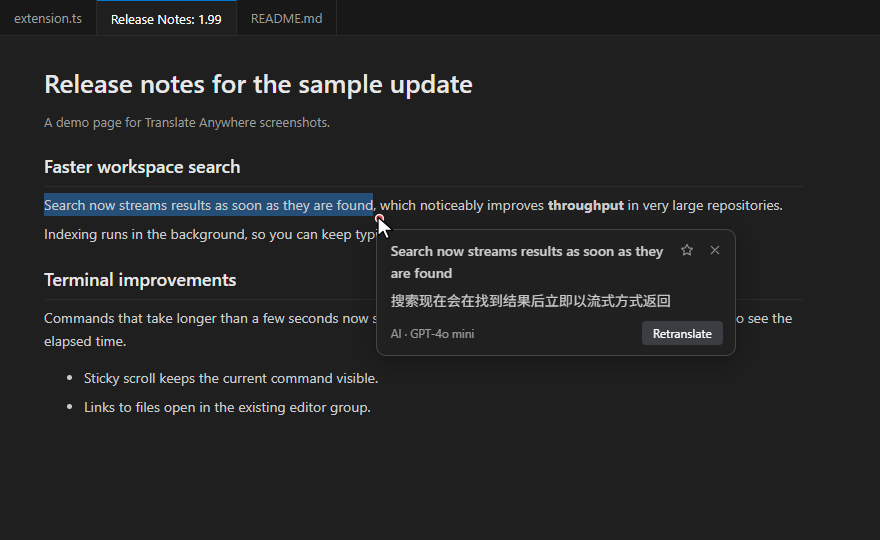
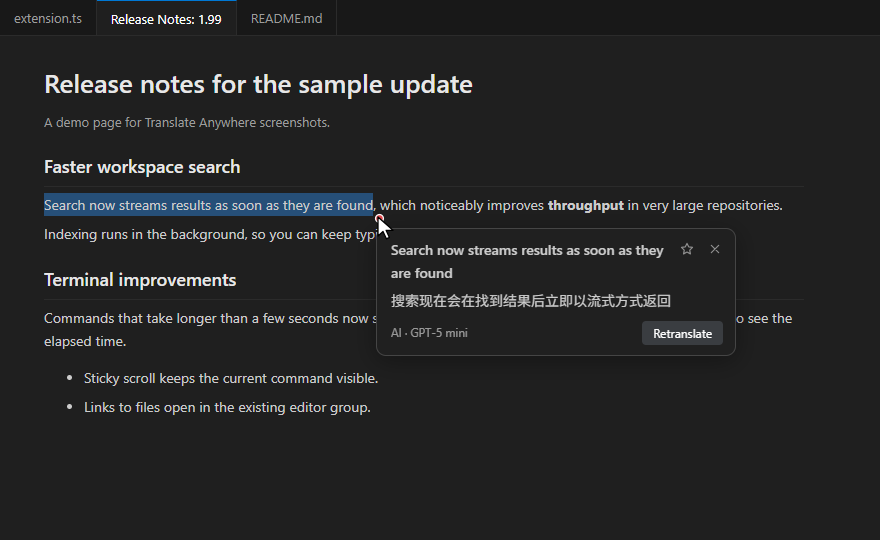
Release 0.6.1: sidebar polish
- Lightweight advisor picks Recommended models after a speed test
- Settings page links jump to the sidebar; new Open the Sidebar command
- Sidebar vocabulary folds after five entries with an inline toggle
- Speed-test tooltip notes premium-request cost
- Fix garbled zh/de setting descriptions
- Refresh README screenshots

diff --git a/src/panel.js b/src/panel.js
@@ -24,13 +24,13 @@ const STRINGS = {
     noModelChosen: 'Choose the model for phrases and paragraphs. A small, fast one works best.',
     needsAccess: 'Not authorized yet.', allowAccess: 'Allow access',
     speed: 'Test speed', testing: 'Testing… {0}%', advising: 'Picking recommendations…', unauthorized: 'not authorized', failed: 'failed',
-    speedTitle: 'Each visible, authorized model translates a sentence: one warm-up, then three timed runs (median shown). Then one of your models picks the ones suited to translation as "Recommended".',
+    speedTitle: 'Each visible, authorized model translates a sentence: one warm-up, then three timed runs (median shown). Then the fastest lightweight model picks the ones suited to translation as "Recommended". Requests to premium models count toward your Copilot premium-request quota; hide models you never use in VS Code\'s Language Models view to skip them.',
     speedRunning: 'One warm-up and three timed runs per model. This can take a minute.',
     fastest: 'Fastest: {0} · {1}', recommendedPick: 'Recommended: {0} · {1}', firstWords: 'first words {0}', useIt: 'Use it', speedNone: 'No model answered within 20 seconds.',
     speedUnauthorized: '{0} not authorized yet, so not measured. Choose one and click "Allow access".', close: 'Close', apiKey: 'API key', keySaved: 'Saved in the OS keychain',
     keyMissing: 'Not set', keyOptional: 'Optional', setKey: 'Set key', getKey: 'Get a key', fetch: 'Fetch list', fetching: 'Loading…',
     baseUrl: 'API base URL', noModels: 'No VS Code language model available. Sign in to GitHub Copilot or pick another provider.',
-    vocabulary: 'Vocabulary', vocabEmpty: 'Click ☆ in the translation popup to collect words and sentences here.', vocabMore: '+{0} more',
+    vocabulary: 'Vocabulary', vocabEmpty: 'Click ☆ in the translation popup to collect words and sentences here.', vocabMore: '{0} more in the full list →', vocabShowMore: 'Show {0} more ▾', vocabShowLess: 'Show less ▴',
     open: 'Open', export: 'Export CSV', remove: 'Remove…',
     dictionary: 'Offline dictionary', dictReady: 'Ready · {0} entries · {1}', dictLoading: 'Loading…', dictDownloading: 'Downloading… {0}',
     dictMissing: 'Not installed. Lookups fall back to AI.', dictError: 'Error: {0}', dictIdle: 'Loads on first lookup',
@@ -60,13 +60,13 @@ const STRINGS = {
     noModelChosen: '请选择用于翻译句子和段落的模型，推荐小而快的模型。',
     needsAccess: '尚未授权。', allowAccess: '授权使用',
     speed: '测速', testing: '测速中… {0}%', advising: '正在挑选推荐模型…', unauthorized: '未授权', failed: '失败',
-    speedTitle: '每个可见且已授权的模型翻译同一句话：先预热一次，再计时三次（显示中位数）。然后由你的一个模型挑出适合翻译的模型，标为“推荐”。',
+    speedTitle: '每个可见且已授权的模型翻译同一句话：先预热一次，再计时三次（显示中位数）。随后由其中最快的轻量模型挑出适合翻译的模型，标为“推荐”。对高级模型的请求会计入 Copilot 高级请求额度；不用的模型可在 VS Code 的“语言模型”视图中隐藏，测速时即会跳过。',
     speedRunning: '每个模型预热一次、计时三次，可能需要一分钟左右。',
     fastest: '最快：{0} · {1}', recommendedPick: '推荐：{0} · {1}', firstWords: '首字 {0}', useIt: '改用此模型', speedNone: '没有模型在 20 秒内返回结果。',
     speedUnauthorized: '{0} 个模型尚未授权，未参与测速。选中后点击“授权使用”即可。', close: '关闭', apiKey: 'API Key', keySaved: '已保存在系统钥匙串', keyMissing: '未设置', keyOptional: '可选',
     setKey: '设置 Key', getKey: '获取 Key', fetch: '获取列表', fetching: '加载中…', baseUrl: 'API 地址',
     noModels: '没有可用的 VS Code 语言模型。请登录 GitHub Copilot 或选择其他服务商。',
-    vocabulary: '生词本', vocabEmpty: '在翻译弹窗中点击 ☆，即可把单词和句子收藏到这里。', vocabMore: '还有 {0} 条',
+    vocabulary: '生词本', vocabEmpty: '在翻译弹窗中点击 ☆，即可把单词和句子收藏到这里。', vocabMore: '另有 {0} 条，查看完整列表 →', vocabShowMore: '展开其余 {0} 条 ▾', vocabShowLess: '收起 ▴',
     open: '打开', export: '导出 CSV', remove: '删除…',
     dictionary: '离线词典', dictReady: '可用 · {0} 词条 · {1}', dictLoading: '加载中…', dictDownloading: '下载中… {0}',
     dictMissing: '未安装，查词将回退到 AI。', dictError: '错误：{0}', dictIdle: '首次查词时加载',
@@ -96,7 +96,7 @@ const STRINGS = {
     noModelChosen: 'Wählen Sie das Modell für Sätze und Absätze. Ein kleines, schnelles eignet sich am besten.',
     needsAccess: 'Noch nicht autorisiert.', allowAccess: 'Zugriff erlauben',
     speed: 'Tempo messen', testing: 'Wird gemessen… {0}%', advising: 'Empfehlungen werden ermittelt…', unauthorized: 'nicht autorisiert', failed: 'fehlgeschlagen',
-    speedTitle: 'Jedes sichtbare, autorisierte Modell übersetzt einen Satz: ein Aufwärmlauf, dann drei gemessene Läufe (Median). Danach wählt eines Ihrer Modelle die für Übersetzungen geeigneten als „Empfohlen“ aus.',
+    speedTitle: 'Jedes sichtbare, autorisierte Modell übersetzt einen Satz: ein Aufwärmlauf, dann drei gemessene Läufe (Median). Danach wählt das schnellste leichte Modell die für Übersetzungen geeigneten als „Empfohlen“ aus. Anfragen an Premium-Modelle zählen zu Ihrem Copilot-Premium-Kontingent; in der Ansicht „Sprachmodelle“ ausgeblendete Modelle werden übersprungen.',
     speedRunning: 'Ein Aufwärmlauf und drei gemessene Läufe pro Modell. Das kann eine Minute dauern.',
     fastest: 'Am schnellsten: {0} · {1}', recommendedPick: 'Empfohlen: {0} · {1}', firstWords: 'erste Wörter {0}', useIt: 'Verwenden', speedNone: 'Kein Modell hat innerhalb von 20 Sekunden geantwortet.',
     speedUnauthorized: '{0} noch nicht autorisiert und daher nicht gemessen. Eines auswählen und auf „Zugriff erlauben“ klicken.', close: 'Schließen', apiKey: 'API-Schlüssel',
@@ -104,7 +104,7 @@ const STRINGS = {
     setKey: 'Schlüssel festlegen', getKey: 'Schlüssel erhalten', fetch: 'Liste abrufen', fetching: 'Wird geladen…',
     baseUrl: 'API-Basis-URL',
     noModels: 'Kein VS Code-Sprachmodell verfügbar. Melden Sie sich bei GitHub Copilot an oder wählen Sie einen anderen Anbieter.',
-    vocabulary: 'Vokabelliste', vocabEmpty: 'Im Übersetzungsfenster auf ☆ klicken, um Wörter und Sätze hier zu sammeln.', vocabMore: '+{0} weitere',
+    vocabulary: 'Vokabelliste', vocabEmpty: 'Im Übersetzungsfenster auf ☆ klicken, um Wörter und Sätze hier zu sammeln.', vocabMore: '{0} weitere in der vollständigen Liste →', vocabShowMore: '{0} weitere anzeigen ▾', vocabShowLess: 'Weniger anzeigen ▴',
     open: 'Öffnen', export: 'CSV exportieren', remove: 'Entfernen…',
     dictionary: 'Offline-Wörterbuch', dictReady: 'Bereit · {0} Einträge · {1}', dictLoading: 'Wird geladen…', dictDownloading: 'Wird heruntergeladen… {0}',
     dictMissing: 'Nicht installiert. Nachschlagen erfolgt per KI.', dictError: 'Fehler: {0}', dictIdle: 'Wird beim ersten Nachschlagen geladen',
@@ -288,6 +288,9 @@ class SettingsPanel {
   ul.vocab .w { font-weight: 600; overflow-wrap: anywhere; }
   ul.vocab .ph { margin-left: 6px; opacity: .65; font-size: 12px; }
   ul.vocab .tr { opacity: .8; font-size: 12px; white-space: nowrap; overflow: hidden; text-overflow: ellipsis; }
+  ul.vocab.expanded { max-height: 360px; overflow-y: auto; padding-right: 2px; }
+  .vocabfoot { display: flex; flex-wrap: wrap; justify-content: space-between; gap: 4px 12px; margin-top: 6px; font-size: 12px; }
+  .vocabfoot a[hidden] { display: none; }
 </style></head><body>
 <div class="banner" id="banner" role="alert" hidden><span id="bannerText"></span><button class="icon" id="bannerClose" title="${s.close}" aria-label="${s.close}">×</button></div>
 <details class="sec" data-sec="integration" open>
@@ -374,7 +377,8 @@ class SettingsPanel {
   <summary>${s.vocabulary}<span class="badge" id="vocabBadge" hidden></span></summary>
   <div class="muted" id="vocabEmpty" hidden>${s.vocabEmpty}</div>
   <ul class="vocab" id="vocabList"></ul>
-  <div class="muted" id="vocabMore" hidden></div>
+  <div class="vocabfoot"><a id="vocabToggle" role="button" tabindex="0" aria-controls="vocabList" hidden></a>
+    <a id="vocabMore" data-command="translateAnywhere.openVocabulary" role="button" tabindex="0" hidden></a></div>
   <div class="buttons"><button class="primary" id="vocabOpen" data-command="translateAnywhere.openVocabulary">${s.open}</button>
     <button id="vocabExport" data-command="translateAnywhere.exportVocabulary">${s.export}</button>
     <button id="vocabRemove" data-command="translateAnywhere.removeVocabulary">${s.remove}</button></div>
@@ -467,12 +471,19 @@ function renderSpeed(s) {
   }));
   info.hidden = !lines.length;
 }
+// Shows the newest few; the rest of what the host sent unfolds inline, anything beyond lives in the full list.
+const VOCAB_FOLDED = 5;
+let vocabExpanded = !!(vscode.getState() || {}).vocabExpanded;
 function renderVocabulary(s) {
   const recent = s.vocabularyRecent || [];
+  const extra = Math.max(0, recent.length - VOCAB_FOLDED);
+  const expanded = vocabExpanded && extra > 0;
+  const shown = expanded ? recent : recent.slice(0, VOCAB_FOLDED);
   $('vocabBadge').textContent = s.vocabularyCount;
   $('vocabBadge').hidden = !s.vocabularyCount;
   $('vocabEmpty').hidden = s.vocabularyCount > 0;
-  $('vocabList').replaceChildren(...recent.map(entry => {
+  $('vocabList').classList.toggle('expanded', expanded);
+  $('vocabList').replaceChildren(...shown.map(entry => {
     const li = document.createElement('li');
     const word = document.createElement('span');
     word.className = 'w';
@@ -493,8 +504,11 @@ function renderVocabulary(s) {
     }
     return li;
   }));
-  const more = s.vocabularyCount - recent.length;
-  $('vocabMore').hidden = more <= 0;
+  $('vocabToggle').hidden = !extra;
+  $('vocabToggle').textContent = expanded ? S.vocabShowLess : fmt(S.vocabShowMore, extra);
+  $('vocabToggle').setAttribute('aria-expanded', String(expanded));
+  const more = s.vocabularyCount - shown.length;
+  $('vocabMore').hidden = !expanded || more <= 0;
   $('vocabMore').textContent = fmt(S.vocabMore, more);
   for (const id of ['vocabOpen', 'vocabExport', 'vocabRemove']) $(id).disabled = !s.vocabularyCount;
 }
@@ -657,6 +671,8 @@ function resizeIcon(data, name) {
   img.src = data;
 }
 function focusTarget(id) {
+  if (id === 'modelId' && $('vscodeAI').hidden) id = 'apiModel';
+  if (id === 'vocabList' && $('vocabList').hidden) id = 'vocabOpen';
   const el = $(id);
   if (!el) return;
   if (id === 'dotEditor') toggleDotEditor(true);
@@ -687,6 +703,20 @@ for (const section of document.querySelectorAll('details[data-sec]')) {
   section.addEventListener('toggle', () => {
     collapsed[section.open ? 'delete' : 'add'](section.dataset.sec);
     vscode.setState({ ...(vscode.getState() || {}), collapsed: [...collapsed] });
+  });
+}
+function toggleVocab() {
+  vocabExpanded = !vocabExpanded;
+  vscode.setState({ ...(vscode.getState() || {}), vocabExpanded });
+  renderVocabulary(state);
+  if (!vocabExpanded) $('vocabList').scrollTop = 0;
+}
+$('vocabToggle').addEventListener('click', toggleVocab);
+for (const id of ['vocabToggle', 'vocabMore']) {
+  $(id).addEventListener('keydown', event => {
+    if (event.key !== 'Enter' && event.key !== ' ') return;
+    event.preventDefault();
+    $(id).click();
   });
 }
 $('bannerClose').addEventListener('click', () => { $('banner').hidden = true; });

diff --git a/src/extension.js b/src/extension.js
@@ -137,8 +137,8 @@ async function activate(context) {
   // A realistic UI sentence; one word measured mostly network noise and let large models look fast.
   const BENCHMARK_TEXT = 'This update makes search results appear faster and fixes a crash when you open very large files.';
   // Measures only models this extension may already use, so no consent dialog pops up per provider. Each model gets
-  // an untimed warm-up and three timed runs (median), at most two requests at a time. Then one of the user's models
-  // picks the lightweight ones for the "Recommended" group (onProgress gets phase 'advice' meanwhile).
+  // an untimed warm-up and three timed runs (median), at most two requests at a time. Then the fastest lightweight model
+  // picks the ones for the "Recommended" group (onProgress gets phase 'advice' meanwhile).
   async function measureModels(list, onProgress, token) {
     const results = await models.benchmark(list, async model => {
       const started = performance.now();
@@ -163,9 +163,7 @@ async function activate(context) {
   // Ids the user's own model judged lightweight and good for translation after the last speed test (empty: none known).
   const modelAdvice = () => new Set(context.globalState.get('modelAdvice', { ids: [] }).ids || []);
   async function adviseModels(list, token) {
-    const measuredOk = list.filter(model => modelTimings.get(model.id)?.status === 'ok');
-    const configured = measuredOk.find(model => model.id === config().get('ai.modelId', ''));
-    const advisor = configured || [...measuredOk].sort((a, b) => speedRank(a) - speedRank(b))[0];
+    const advisor = models.pickAdvisor(list.filter(model => modelTimings.get(model.id)?.status === 'ok'), speedRank);
     let ids = [];
     if (advisor) {
       try {
@@ -830,8 +828,13 @@ async function activate(context) {
     for (const key of Object.keys(DOT_DEFAULTS)) await config().update(`dot.${key}`, undefined, vscode.ConfigurationTarget.Global);
   }
   async function customizeDot() {
+    await openSidebar('dotEditor');
+  }
+  // Also the target of "command:" links in the setting descriptions; only known sidebar controls can be focused.
+  const SIDEBAR_TARGETS = new Set(['dotEditor', 'scParagraph', 'scFullPage', 'provider', 'modelId', 'targetLanguage', 'vocabList']);
+  async function openSidebar(target) {
     await vscode.commands.executeCommand(`${SettingsPanel.viewType}.focus`);
-    panel?.focus('dotEditor');
+    if (typeof target === 'string' && SIDEBAR_TARGETS.has(target)) panel?.focus(target);
   }
   // One-time hint in the translation popup that paragraph / page shortcuts exist: shown after a long selection,
   // at most three times, never twice within ten minutes, and never again once dismissed or a shortcut was used.
@@ -1164,6 +1167,7 @@ async function activate(context) {
     vscode.commands.registerCommand('translateAnywhere.authorizeAI', guarded(authorizeModel)),
     vscode.commands.registerCommand('translateAnywhere.tryIt', guarded(openPractice)),
     vscode.commands.registerCommand('translateAnywhere.customizeDot', guarded(customizeDot)),
+    vscode.commands.registerCommand('translateAnywhere.openSidebar', target => guarded(() => openSidebar(target))()),
     vscode.commands.registerCommand('translateAnywhere.openMarkdownAsPreview', guarded(() => setMarkdownPreviewDefault(true))),
     vscode.commands.registerCommand('translateAnywhere.openMarkdownAsText', guarded(() => setMarkdownPreviewDefault(false))),
     vscode.commands.registerCommand('translateAnywhere.openSurfaceSettings', () =>
@@ -1240,7 +1244,8 @@ async function activate(context) {
         }
       } catch (error) { logError(error); }
     }
-    const recent = vocabulary.list().slice(0, 5).map(entry => ({
+    // Enough for the sidebar's expandable list; the full list opens in an editor.
+    const recent = vocabulary.list().slice(0, 100).map(entry => ({
       text: entry.text.slice(0, 80), phonetic: (entry.phonetic || '').slice(0, 40),
       translation: (entry.translation || '').replace(/\s+/g, ' ').slice(0, 120)
     }));

diff --git a/src/models.js b/src/models.js
@@ -194,6 +194,13 @@ function advicePrompt(list) {
   ].join('\n');
 }
 
+// Model asked for the advice above: a lightweight one, since flagship models can cost many premium requests.
+// The fastest measured model that looks lightweight by name; else the fastest one (fast models are usually small).
+function pickAdvisor(measured, speedRank) {
+  const bySpeed = [...measured].sort((a, b) => speedRank(a) - speedRank(b));
+  return bySpeed.find(model => preferredRank(model) >= 0) || bySpeed[0];
+}
+
 // The ids from a model's answer that really are in `ids`; undefined when the answer is not a JSON array.
 function parseAdvice(text, ids) {
   const match = String(text || '').match(/\[[\s\S]*?\]/);
@@ -207,5 +214,5 @@ function parseAdvice(text, ids) {
 
 module.exports = {
   AUTO_MODEL, PREFERRED_MODELS, preferredRank, sortByPreference, pickPreferred,
-  parseHiddenModels, isHidden, median, benchmark, timingRank, advicePrompt, parseAdvice
+  parseHiddenModels, isHidden, median, benchmark, timingRank, advicePrompt, parseAdvice, pickAdvisor
 };

diff --git a/test/core.test.js b/test/core.test.js
@@ -717,6 +717,13 @@ test('internal Copilot helpers are hidden, size words are a generic fallback, an
   assert.deepEqual(models.parseAdvice('[]', ids), []);
   assert.equal(models.parseAdvice('I would pick GPT-5 mini.', ids), undefined);
   assert.equal(models.parseAdvice('[not json', ids), undefined);
+
+  // The advisor is a lightweight model even when a large one measured faster; otherwise the fastest one.
+  const times = { 'claude-opus-4.8': 500, 'gpt-5-mini': 900, 'big-pro': 300 };
+  const rank = m => times[m.id];
+  assert.equal(models.pickAdvisor([{ id: 'claude-opus-4.8' }, { id: 'gpt-5-mini', name: 'GPT-5 mini' }], rank).id, 'gpt-5-mini');
+  assert.equal(models.pickAdvisor([{ id: 'claude-opus-4.8' }, { id: 'big-pro' }], rank).id, 'big-pro');
+  assert.equal(models.pickAdvisor([], rank), undefined);
 });
 
 test('speed benchmark warms up, takes the median, limits concurrency and reports unauthorized/failed models', async () => {

diff --git a/tools/panel-test.py b/tools/panel-test.py
@@ -75,7 +75,11 @@ def state(provider="vscode", lang="en"):
         "shortcuts": {"paragraph": "Alt+Z", "fullPage": "Alt+W"},
         "vocabularyCount": 12,
         "vocabularyRecent": [{"text": "serendipity", "phonetic": "ˌserənˈdɪpəti", "translation": "n. 意外发现珍奇事物的本领"},
-                             {"text": "ephemeral", "phonetic": "", "translation": "adj. 短暂的"}],
+                             {"text": "ephemeral", "phonetic": "ɪˈfemərəl", "translation": "adj. 短暂的"}]
+        + [{"text": w, "phonetic": "", "translation": t} for w, t in [
+            ("ubiquitous", "adj. 无处不在的"), ("meticulous", "adj. 一丝不苟的"), ("resilient", "adj. 有弹性的；能复原的"),
+            ("pragmatic", "adj. 务实的"), ("ambiguous", "adj. 模棱两可的"), ("concise", "adj. 简明的"),
+            ("idempotent", "adj. 幂等的"), ("latency", "n. 延迟"), ("deprecate", "v. 弃用"), ("throttle", "v. 节流")]],
         "markdownPreviewDefault": False,
         "dot": {"size": 7, "color": "#e5484d", "borderWidth": 1, "borderColor": "#ffffff", "opacity": 0.85, "shape": "circle", "icon": "", "iconName": ""},
     }
@@ -137,8 +141,24 @@ def main():
         assert page.eval_on_selector_all("#modelId optgroup", "g => g.length") == 2
         assert page.is_visible("#chooseHint") and not page.is_visible("#accessInfo")
         assert page.is_visible("#tryBtn") and page.is_visible("#mdSet") and not page.is_visible("#mdUndo")
-        assert page.eval_on_selector_all("#vocabList li", "l => l.length") == 2 and "serendipity" in page.inner_text("#vocabList")
-        assert page.is_visible("#vocabMore") and "10" in page.inner_text("#vocabMore") and page.inner_text("#vocabBadge") == "12"
+        # Vocabulary: five shown, the rest folded inline; the full-list link only when the host sent fewer than exist.
+        assert page.eval_on_selector_all("#vocabList li", "l => l.length") == 5 and "serendipity" in page.inner_text("#vocabList")
+        assert page.is_visible("#vocabToggle") and "7" in page.inner_text("#vocabToggle") and not page.is_visible("#vocabMore")
+        assert page.inner_text("#vocabBadge") == "12"
+        page.click("#vocabToggle")
+        assert page.eval_on_selector_all("#vocabList li", "l => l.length") == 12 and not page.is_visible("#vocabMore")
+        assert page.inner_text("#vocabToggle") == STRINGS[lang].get("vocabShowLess", STRINGS["en"]["vocabShowLess"])
+        many = state("vscode", lang)
+        many["vocabularyCount"] = 130
+        post({"type": "state", "state": many})
+        wait("document.getElementById('vocabBadge').textContent === '130'")
+        assert page.is_visible("#vocabMore") and "118" in page.inner_text("#vocabMore")
+        page.click("#vocabMore")
+        assert any(m.get("command") == "translateAnywhere.openVocabulary" for m in posted())
+        page.click("#vocabToggle")
+        assert page.eval_on_selector_all("#vocabList li", "l => l.length") == 5 and not page.is_visible("#vocabMore")
+        post({"type": "state", "state": state("vscode", lang)})
+        wait("document.getElementById('vocabBadge').textContent === '12'")
         # Shortcuts come before the AI engine, the vocabulary before the dictionary.
         order = page.eval_on_selector_all("details.sec", "d => d.map(x => x.dataset.sec)")
         assert order.index("shortcuts") < order.index("ai") < order.index("vocabulary") < order.index("dictionary"), order
@@ -148,7 +168,20 @@ def main():
         assert page.is_visible("#deBox") == (lang == "de"), "German dictionary block shows only for a German UI"
         assert not page.is_visible("#speedInfo")
         if shot:
-            page.screenshot(path=shot, full_page=True)
+            # A configured, speed-tested model; clipped below the vocabulary so the README shows the main sections.
+            pretty = state("vscode", lang)
+            pretty["modelId"] = "gpt-5-mini"
+            pretty["modelAuthorized"] = True
+            for model, ms in zip(pretty["vscodeModels"], (820, 1150, 3900)):
+                model["timing"] = {"status": "ok", "median": ms, "first": ms // 2}
+            post({"type": "state", "state": pretty})
+            wait("document.getElementById('modelId').value === 'gpt-5-mini'")
+            page.mouse.move(0, 0)
+            page.wait_for_timeout(200)
+            bottom = page.eval_on_selector("details[data-sec='vocabulary']", "d => d.getBoundingClientRect().bottom + window.scrollY")
+            page.screenshot(path=shot, clip={"x": 0, "y": 0, "width": 320, "height": bottom + 12}, full_page=True)
+            post({"type": "state", "state": state("vscode", lang)})
+            wait("document.getElementById('modelId').value === ''")
         posted()
 
         # Speed test: progress on the button, then the fastest model first with a one-click switch.

diff --git a/tools/screenshots.py b/tools/screenshots.py
@@ -112,7 +112,7 @@ def handler(lang):
             data = {"found": bool(hit), "word": text, "phonetic": hit["phonetic"] if hit else "",
                     "translation": hit["translation"] if hit else "", "source": "ECDICT"}
         elif url == "/ai":
-            data = {"translation": AI.get(text, AI.get(text.rstrip("."), "（译文）")), "source": "AI · GPT-4o mini"}
+            data = {"translation": AI.get(text, AI.get(text.rstrip("."), "（译文）")), "source": "AI · GPT-5 mini"}
         elif url == "/vocab":
             data = {"saved": False}
         else:
@@ -255,8 +255,8 @@ def sidebar(lang, out):
         args.append("--zh")
     subprocess.run(args, check=True, env=os.environ)
     img = Image.open(out / "sidebar.png")
-    # Keep the AI engine section in view; the full panel is longer than a typical sidebar.
-    img.crop((0, 0, img.width, min(img.height, 1500))).save(out / "sidebar.png", optimize=True)
+    # panel-test.py already clips below the vocabulary section; this only guards against a runaway height.
+    img.crop((0, 0, img.width, min(img.height, 3200))).save(out / "sidebar.png", optimize=True)
 
 
 def main():

diff --git a/README.md b/README.md
@@ -20,7 +20,7 @@ Text editors are never touched. The extension does nothing while you edit code.
 | **Many AI providers** | VS Code language models (GitHub Copilot, no key needed), OpenAI, Anthropic Claude, Google Gemini, DeepSeek, Qwen, Kimi, GLM, SiliconFlow, OpenRouter, Groq, Mistral, Ollama, or any OpenAI-compatible endpoint. |
 | **Settings sidebar** | Everything in one panel in the Activity Bar: shortcuts with a sample page to try them, provider and model lists, API keys, vocabulary and dictionary. |
 | **Markdown as preview** | One click in the sidebar makes `.md` files open as a rendered preview by default, which is easier to read and translate. **Open as text again** undoes it. |
-| **Vocabulary book** | Click ☆ in the popup to save a word or sentence. The sidebar shows your latest entries; open, export to CSV or remove them. |
+| **Vocabulary book** | Click ☆ in the popup to save a word or sentence. The sidebar shows your latest entries and unfolds more in place; open, export to CSV or remove them. |
 | **Your language** | 20 target languages; the UI follows your VS Code display language. |
 
 | Dictionary | AI translation |
@@ -60,14 +60,14 @@ Click the **文A** icon in the Activity Bar. The sidebar shows:
 - **Translation**: target language, full-page display mode, automatic AI.
 - **AI engine**:
   - provider list;
-  - model list: the models VS Code's model picker shows you, in its order, and **Auto** as an explicit choice. **Speed test** warms up each model once and times three runs and shows the median; then one of your own models picks the lightweight ones suited to translation, which appear as **Recommended**, with **Use it**. It never runs by itself. API providers get **Fetch list** instead;
+  - model list: the models VS Code's model picker shows you, in its order, and **Auto** as an explicit choice. **Speed test** warms up each model once and times three runs and shows the median;   then the fastest lightweight model among them picks the ones suited to translation, which appear as **Recommended**, with **Use it**. It never runs by itself; requests to premium models count toward your Copilot premium-request quota, so hide models you never use in VS Code's **Language Models** view. API providers get **Fetch list** instead;
   - API key status with a link to the provider's key page;
   - an optional base URL.
-- **Vocabulary**: your latest saved entries; open, export, remove.
+  - **Vocabulary**: your five latest entries; **Show N more** unfolds the rest in place (the full list opens in an editor); open, export, remove.
 - **Offline dictionary**: status, Download, Choose file, Use default.
 - Footer: **Where to translate…** (per-surface switches), all settings, log.
 
-All values are ordinary VS Code settings, so they also appear in **Settings → Extensions → Translate Anywhere** and sync with Settings Sync. API keys are the exception: they never leave VS Code's Secret Storage.
+All values are ordinary VS Code settings, so they also appear in **Settings → Extensions → Translate Anywhere** and sync with Settings Sync; links there jump to the matching control in the sidebar. API keys are the exception: they never leave VS Code's Secret Storage.
 
 <br clear="right">
 
@@ -167,7 +167,7 @@ All commands are under **Translate Anywhere:** in the Command Palette. Most are 
 | Download Dictionary · Use Local Dictionary File… · Use Default Dictionary | Manage the offline dictionaries. |
 | Try It on a Sample Page · Open Markdown Files as Preview by Default · Open Markdown Files as Text by Default · Choose Where to Translate | Getting started and reading comfort. |
 | Open Vocabulary · Export Vocabulary to CSV · Remove Vocabulary Entries | Manage saved words. |
-| Open Settings · Show Status · Show Log | Settings and diagnostics. |
+| Open the Sidebar · Open Settings · Show Status · Show Log | Settings and diagnostics. |
 
 ## Privacy
 

diff --git a/README.zh-CN.md b/README.zh-CN.md
@@ -23,7 +23,7 @@
 | **多家 AI 服务商** | VS Code 语言模型（GitHub Copilot，无需 Key）、OpenAI、Anthropic Claude、Google Gemini、DeepSeek、通义千问、Kimi、智谱 GLM、硅基流动、OpenRouter、Groq、Mistral、Ollama，或任何 OpenAI 兼容接口。 |
 | **设置侧边栏** | 活动栏中一个面板集中管理：快捷键（附示例页面可直接试用）、服务商与模型下拉列表、API Key、生词本、词典。 |
 | **Markdown 默认预览** | 在侧边栏一键把 `.md` 文件改为默认以渲染后的预览打开，阅读和翻译都更方便；点 **恢复为源码打开** 即可撤销。 |
-| **生词本** | 点击弹窗中的 ☆ 收藏单词或句子。侧边栏显示最近收藏的条目，可打开、导出 CSV 或删除。 |
+| **生词本** | 点击弹窗中的 ☆ 收藏单词或句子。侧边栏显示最近收藏的条目，更多条目可原处展开；可打开、导出 CSV 或删除。 |
 | **多语言** | 20 种目标语言；界面语言跟随 VS Code 显示语言。 |
 
 | 词典释义 | AI 翻译 |
@@ -63,14 +63,14 @@
 - **翻译**：目标语言、全文翻译显示方式、自动 AI。
 - **AI 引擎**：
   - 服务商下拉列表；
-  - 模型下拉列表：只列出 VS Code 模型选择器中你能看到的模型，保持其原有顺序；**自动** 需要你主动选择。**测速** 会让每个模型先预热一次、再计时三次并显示中位数，随后由你自己的一个模型判断哪些是适合翻译的轻量模型，列为 **推荐**，旁边有 **改用此模型**；测速只在你点击时运行。API 服务商则提供"获取列表"；
+  - 模型下拉列表：只列出 VS Code 模型选择器中你能看到的模型，保持其原有顺序；**自动** 需要你主动选择。**测速** 会让每个模型先预热一次、再计时三次并显示中位数，  随后由其中最快的轻量模型判断哪些适合翻译，列为 **推荐**，旁边有 **改用此模型**；测速只在你点击时运行。对高级模型的请求会计入 Copilot 高级请求额度，不用的模型可在 VS Code 的 **语言模型** 视图中隐藏。API 服务商则提供"获取列表"；
   - API Key 状态及获取 Key 的链接；
   - 可选的 API 地址。
-- **生词本**：显示最近收藏的条目，可打开、导出、删除。
+  - **生词本**：显示最近 5 条，点击 **展开其余 N 条** 可在原处展开（完整列表在编辑器中打开）；可打开、导出、删除。
 - **离线词典**：状态，以及"下载"、"选择文件"、"恢复默认"。
 - 底部：**翻译范围…**（按页面类型开关）、全部设置、查看日志。
 
-除 API Key 外，所有选项都是普通的 VS Code 设置，在 **设置 → 扩展 → Translate Anywhere** 中同样可见，也会随设置同步。API Key 只保存在 VS Code 的 Secret Storage 中。
+除 API Key 外，所有选项都是普通的 VS Code 设置，在 **设置 → 扩展 → Translate Anywhere** 中同样可见，也会随设置同步；那里的链接可直接跳到侧边栏中对应的控件。API Key 只保存在 VS Code 的 Secret Storage 中。
 
 <br clear="right">
 
@@ -170,7 +170,7 @@ VS Code 没有给扩展提供在 Chat、Release Notes、设置页或内置 Markd
 | 下载词典 · 使用本地词典文件… · 使用默认词典 | 管理离线词典。 |
 | 在示例页面上试用 · 默认以预览方式打开 Markdown 文件 · 默认以文本方式打开 Markdown 文件 · 选择翻译范围 | 上手与阅读体验。 |
 | 打开生词本 · 导出生词本为 CSV · 删除生词本条目 | 管理收藏的单词。 |
-| 打开设置 · 显示状态 · 显示日志 | 设置与诊断。 |
+| 打开侧边栏 · 打开设置 · 显示状态 · 显示日志 | 设置与诊断。 |
 
 ## 隐私
 

diff --git a/CHANGELOG.md b/CHANGELOG.md
@@ -2,6 +2,20 @@
 
 All notable changes to this extension are documented here. The format follows [Keep a Changelog](https://keepachangelog.com/en/1.1.0/).
 
+## [0.6.1] - Sidebar polish
+
+### Added
+- The extension's page in **Settings** now links to the sidebar: a tip on top, and **Set it in the sidebar** links on the shortcut, selection-dot, provider and model settings jump straight to the matching control. New command **Open the Sidebar**.
+- Sidebar vocabulary shows the five latest entries and a **Show N more** toggle that unfolds the rest in place (scrollable, remembered). Beyond 100 entries a link opens the full list.
+
+### Changed
+- After a speed test, the **Recommended** group is picked by the fastest lightweight model you have, not by your configured (possibly premium) model.
+- The speed-test tooltip explains that requests to premium models count toward your Copilot premium-request quota and that hidden models are skipped.
+- Refreshed README screenshots for the new sidebar layout.
+
+### Fixed
+- Garbled characters (`??`) in several Chinese and German setting descriptions (selection dot, model) and in an English range.
+
 ## [0.6.0] - Smarter model choice and easier start
 
 ### Added
